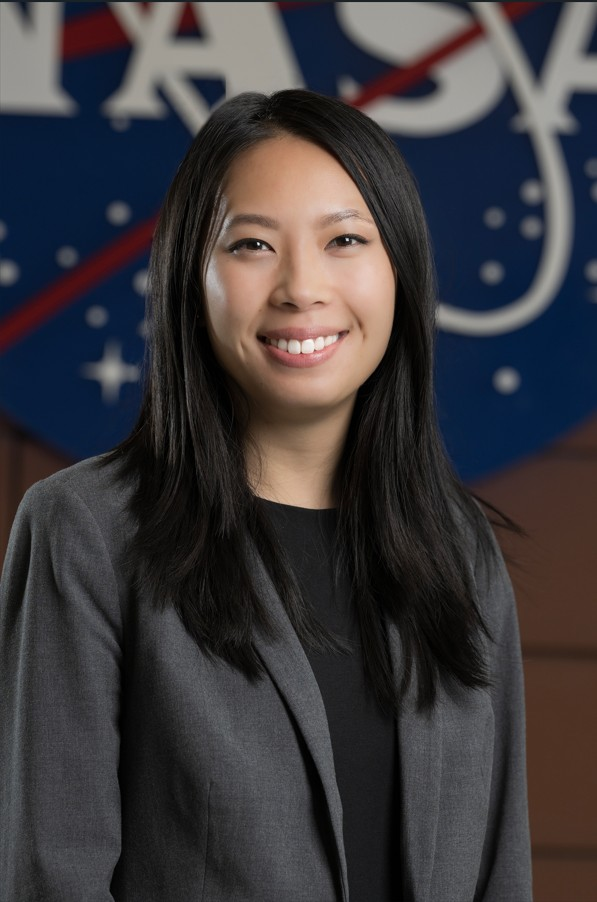
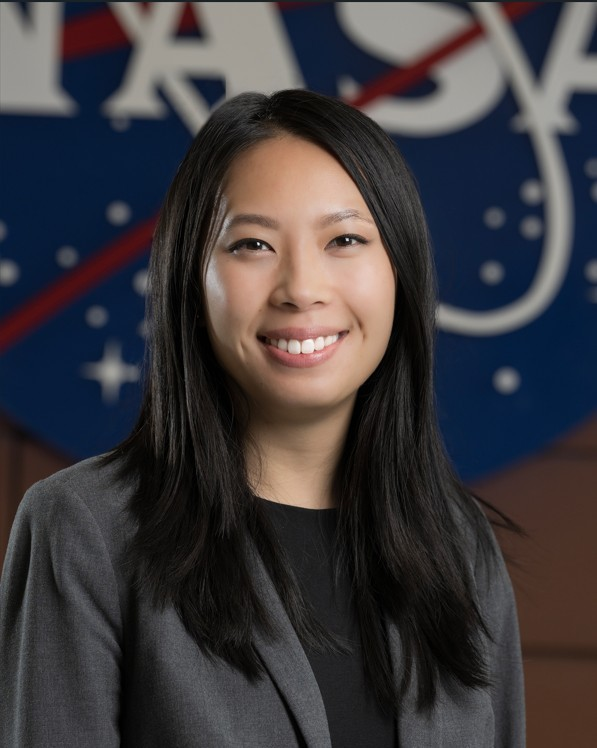
Updated

diff --git a/carbon_biomass_loss_fairbanks/carbon_biomass_index.html b/carbon_biomass_loss_fairbanks/carbon_biomass_index.html
@@ -1,0 +1,84 @@
+<!DOCTYPE html>
+<html lang="en">
+<head>
+  <meta charset="UTF-8" />
+  <meta name="viewport" content="width=device-width, initial-scale=1" />
+  <title>Tree Cover & Carbon Loss</title>
+   <link rel="stylesheet" href="../portfoliostyle.css" />
+</head>
+<body>
+
+<header>
+  <div class="container">
+    <h1>Maya Hall</h1>
+    <nav>
+      <ul id="nav-links">
+        <li><a href="../../index.html">About Me</a></li>
+        <li><a href="../../index.html#projects" class="active">Projects</a></li>
+        <li><a href="../../index.html#experience">Experience</a></li>
+        <li><a href="../../index.html#education">Education</a></li>
+        <li><a href="../../index.html#skills">Skills</a></li>
+        <li><a href="../../index.html#cv">CV</a></li>
+      </ul>
+    </nav>
+  </div>
+</header>
+
+<main>
+  <div class="container">
+  <div class="project-header">
+    <h2 style = "font-size: 2rem;">Tree Cover & Carbon Loss</h2>
+    <p style="font-size: 1.2rem;"><i>Estimating Carbon and Tree Cover Loss in Fairbanks, Alaska</i></p>
+  </div>
+    
+  <div class="project-content">
+    <p><strong>Overview and Methods:</strong> 
+        This mini-project sought to explore tree cover and potential carbon loss between the years of 2000 and 2024 in Fairbanks, Alaska. I obtained 
+        Global Forest Watch tree cover data from GEE and ICESat-2 measurements of biomass from NASA Earthdata Search. Using R and QGIS, I created a 
+        spatial model that calculated carbon loss per pixel. To achieve this calculation, I produced a binary raster of total tree cover loss and 
+        used aboveground biomass to estimate the carbon loss. Ultimately, there was some agreement between the detected tree loss and carbon loss rasters, 
+        but further analysis and additional inputs and data sources would strengthen this mini-project.
+         </p>
+    <div class="image-row">
+    <img src="Forest_Loss_Map.png" alt="Project study area" width="600"/>
+    <img src="Total_Forest_Loss_Year.jpg" alt="Plot of forest loss by year" width="400"/>
+  </div>
+
+    <p><strong>Results:</strong> The forest cover data revealed that certain areas within Fairbanks did experience detectable tree cover loss
+      between 2000 and 2024. Within this time period, my calculations found that Fairbanks lost approximately 845.55 hectares of tree cover. As anticipated, 
+      most of the loss occurred in areas where there had previously been tree canopy (identified in the 2000 forest map data). 
+    <img src="Fairbanks_Maps_treecover_loss.jpg"/> </p>
+
+    <p>The biomass data highlighted various areas that underwent carbon loss; however, it is important to note that I could only obtain biomass data 
+      from 2023, rather than 2024. This mismatch in time periods for the study limits the interpretabilty of the results, but I forged ahead out of 
+      curiosity.
+    <img src="Fairbanks_Maps_loss_carbon.jpg"/> </p>
+
+    <p>The mapped tree cover and carbon loss showed that very select regions of the Fairbanks area had detectable carbon <i>and</i> tree cover loss. 
+      Most of the study area depicted less than 5 Mg C lost between 2000 and 2023. </p>
+      <img src="Fairbanks_Maps_both.jpg"/> </p>
+
+    <p> <strong> Discussion and Conclusion:</strong> A more robust analysis of carbon loss, as well as additional data sources, would expand this project and produce stronger results. Fine-tuning 
+      the data and investigating a larger study area would also perhaps improve the utility and relevancy of this work. The Global Forest Watch data 
+      could be supplemented with optical data and vegetation indices (such as NDVI), while the process of calculating and obtaining carbon loss per 
+      hectare could be built upon to incorporate alternative methods that rely on optical and SAR data. Ultimately, this was a quick project to strengthen 
+      my remote sensing, coding, and GIS skills, so I hope to use what I've learned to produce more robust, reliable, and informative research projects.
+    </p>
+
+    <p><strong>Tools Used:</strong> R, QGIS, GEE</p>
+
+    <p><strong>Keywords:</strong> Remote Sensing, Carbon Loss, Tree Cover, Boreal Forest, Biomass</p>
+
+    <a href="../../index.html#projects">&#8592; Back to Projects</a>
+  </div>
+  </div>
+</main>
+
+<footer>
+  <p style="text-align:center; padding: 20px; color: #666">Contact: <a href="mailto:mayalhall@gmail.com">mayalhall@gmail.com</a> | 
+     GitHub: <a href="https://github.com/maya-hall" target="_blank">maya-hall</a> | 
+     LinkedIn: <a href="https://www.linkedin.com/in/mayalynnhall/" target="_blank">mayalynnhall</a></p>
+</footer>
+
+</body>
+</html>

diff --git a/index.html b/index.html
@@ -27,8 +27,8 @@
 
 <main class="container">
   <section id="about">
-    <h2>About Me</h2>
     <img src="additional_content/header_satellite_images.png" alt="section divider" class="section-divider" />
+    <h2>About Me</h2>
     <img src="additional_content/professional_headshot.jpg" alt="Profile Photo" class="profile-photo" />
     <p><strong>Hi, and welcome to my portfolio!</strong></p>
     <p>I am an enthusiastic and dedicated GIS, remote sensing, and research professional with a background in ecology and environmental science.
@@ -40,13 +40,14 @@
 
   <section id="projects">
     <h2>Projects</h2>
-    <img src="additional_content/header_satellite_images.png" alt="section divider" class="section-divider" />
-    <div class="projects-grid">
-      <div class="project-item">
+      <div class="projects-grid">
+      
+        <a href="carbon_biomass_loss_fairbanks/carbon_biomass_loss.html" class = "project-item">
         <img src="tile_images/Forest_Loss_Map.png" alt="Carbon and Forest Loss in Fairbanks, Alaska" />
         <h3>Carbon and Forest Loss in Fairbanks, Alaska</h3>
         <p>A mini-project that used ICESat-2, Global Forest Watch, and Landsat 9 OLI-2 data to examine tree cover and carbon loss.</p>
-      </div>
+      </a>
+      
       <div class="project-item">
         <img src="tile_images/Flood_Risk_Maps_Unbalanced.jpg" alt="Flooding Random Forest Model in North Carolina" />
         <h3>Modeling Flood Risk in Buncombe County, North Carolina</h3>
@@ -74,7 +75,6 @@
 
   <section id="experience">
     <h2>Experience</h2>
-    <img src="additional_content/header_satellite_images.png" alt="section divider" class="section-divider" />
     <p><strong>NASA DEVELOP</strong></p>
     <p> Impact Analysis Fellow</p>
     <p> Project Lead</p>
@@ -84,7 +84,6 @@
 
   <section id="education">
     <h2>Education</h2>
-    <img src="additional_content/header_satellite_images.png" alt="section divider" class="section-divider" />
     <p><strong> American University</strong></p>
     <p>Master of Science in Environmental Science</p>
     <p><strong> University of Delaware</strong></p>
@@ -93,7 +92,6 @@
 
   <section id="skills">
     <h2>Skills</h2>
-    <img src="additional_content/header_satellite_images.png" alt="section divider" class="section-divider" />
     <ul class="skills-list">
       <li>ArcGIS Pro, QGIS, & Google Earth Engine</li>
       <li>R, Python, & JavaScript</li>
@@ -105,7 +103,6 @@
 
   <section id="cv">
     <h2>CV</h2>
-    <img src="additional_content/header_satellite_images.png" alt="section divider" class="section-divider" />
     <p>You can <a href="additional_content/CV_MayaHall_2025.pdf" target="_blank" rel="noopener">download my full CV here</a>.</p>
     
   </section>

diff --git a/south_slough_water_resources/index_south_slough.html b/south_slough_water_resources/index_south_slough.html
@@ -2,10 +2,9 @@
 <html lang="en">
 <head>
   <meta charset="UTF-8" />
-  <meta name="viewport" content="width=device-width, initial-scale=1.0" />
+  <meta name="viewport" content="width=device-width, initial-scale=1" />
   <title>South Slough Water Resources</title>
-  <link rel="stylesheet" href="portfoliostyle.css" />  <!-- this universal style should be edited in the main file only -->
-  
+   <link rel="stylesheet" href="../portfoliostyle.css" />
 </head>
 <body>
 
@@ -26,11 +25,12 @@
 </header>
 
 <main>
+  <div class="container">
   <div class="project-header">
-    <h2>South Slough Water Resources</h2>
-    <p>Monitoring Changes in Water Quality to Identify Stressors in Eelgrass Extent Throughout the Coos Estuary</p>
+    <h2 style = "font-size: 2rem;">South Slough Water Resources</h2>
+    <p style="font-size: 1.2rem;"><i>Monitoring Changes in Water Quality to Identify Stressors in Eelgrass Extent Throughout the Coos Estuary</i></p>
   </div>
-
+    
   <div class="project-content">
     <p><strong>Overview:</strong> 
         In Oregon's Coos Estuary, the extent of eelgrass <i>(Zostera marina)</i> meadows has decreased substantially since 2005. 
@@ -60,7 +60,16 @@
 
     <p><strong>Keywords:</strong> Remote Sensing, Eelgrass, Submerged Aquatic Vegetation, Estuarine Monitoring, Southern Oregon</p>
 
+    <section>
+    <p><strong>Check out some of our project deliverables:</strong></p>
+  <ul>
+    <li><a href="south_slough_water_resources/2023Sum_ARC_SouthSloughWater_Presentation_FD.pdf" target="_blank" rel="noopener">South Slough Presentation</a></li>
+    <li><a href="2023Sum_ARC_SouthSloughWater_Poster_FD.pdf" target="_blank" rel="noopener">South Slough Poster</a></li>
+  </ul>
+</section>
+
     <a href="../../index.html#projects">&#8592; Back to Projects</a>
+  </div>
   </div>
 </main>
 

diff --git a/portfoliostyle.css b/portfoliostyle.css
@@ -7,7 +7,7 @@
       line-height: 1.6;
       margin: 0;
       color: #333;
-      background: #f9f9f9;
+      background: white;
     }
     a {
       color: #007acc;
@@ -32,6 +32,27 @@
     margin: 20px auto; /* Adds space & centers image */
     }
 
+    img {
+    max-width: 100%;
+    height: auto;
+    display: block;
+    margin: 20px auto; /* optional: centers the image */
+    border-radius: 6px; /* optional: adds rounded corners */
+}
+
+.image-row {
+  display: flex;
+  gap: 12px;          /* space between images */
+  justify-content: center; /* center images horizontally */
+  flex-wrap: wrap;    /* allow wrapping on small screens */
+}
+
+.image-row img {
+  max-width: 45%;     /* adjust width to fit two images side by side */
+  height: auto;
+  border-radius: 6px; /* optional rounded corners */
+}
+
     /* Header & nav */
     header {
       background: #9bc4cb;
@@ -49,8 +70,8 @@
     }
     header h1 {
       margin: 0;
-      font-weight: 700;
-      font-size: 1.8rem;
+      font-weight: bold;
+      font-size: 2.8rem;
       cursor: default;
     }
     nav ul {
@@ -98,6 +119,7 @@
   border-radius: 50%;
   object-fit: cover;
   margin-left: 25px;
+  margin-top: -10px; /* adjust this value to move image up */
   border: 3px solid #404d73;
   transition: all 0.3s ease-in-out;
 }
@@ -147,12 +169,15 @@
       color: #555;
     }
 
-    /* Lists */
-    ul.skills-list {
-      list-style-type: disc;
-      padding-left: 20px;
-      margin-top: 0;
-    }
+    ul {
+    padding-left: 20px;
+    margin-top: 10px;
+  }
+
+    ul li {
+    margin-bottom: 6px;
+    line-height: 1.5;
+  }
 
     /* Footer */
     footer {
